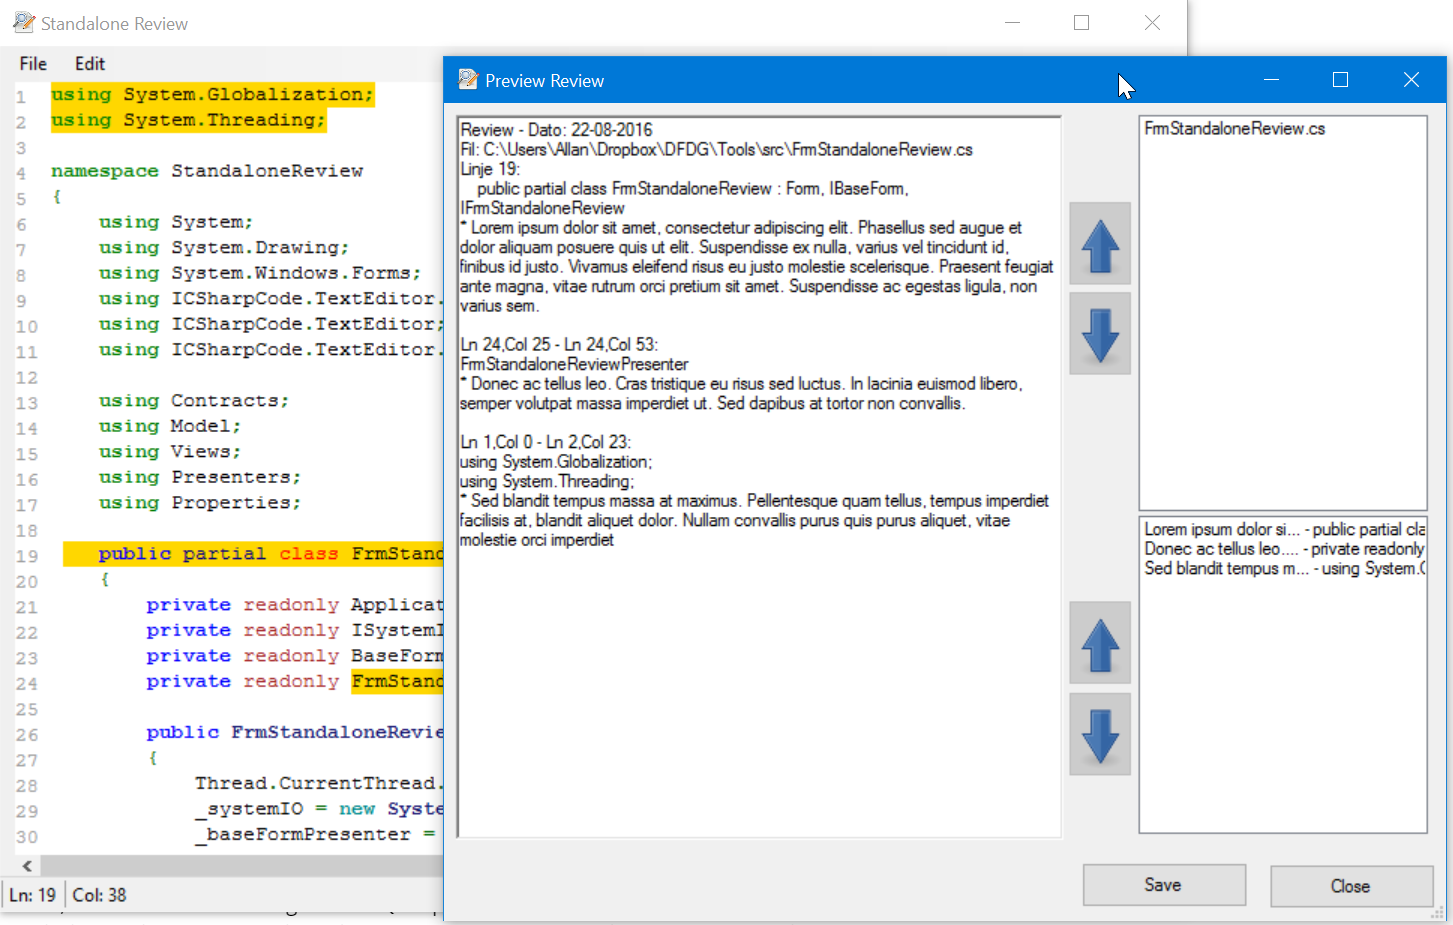
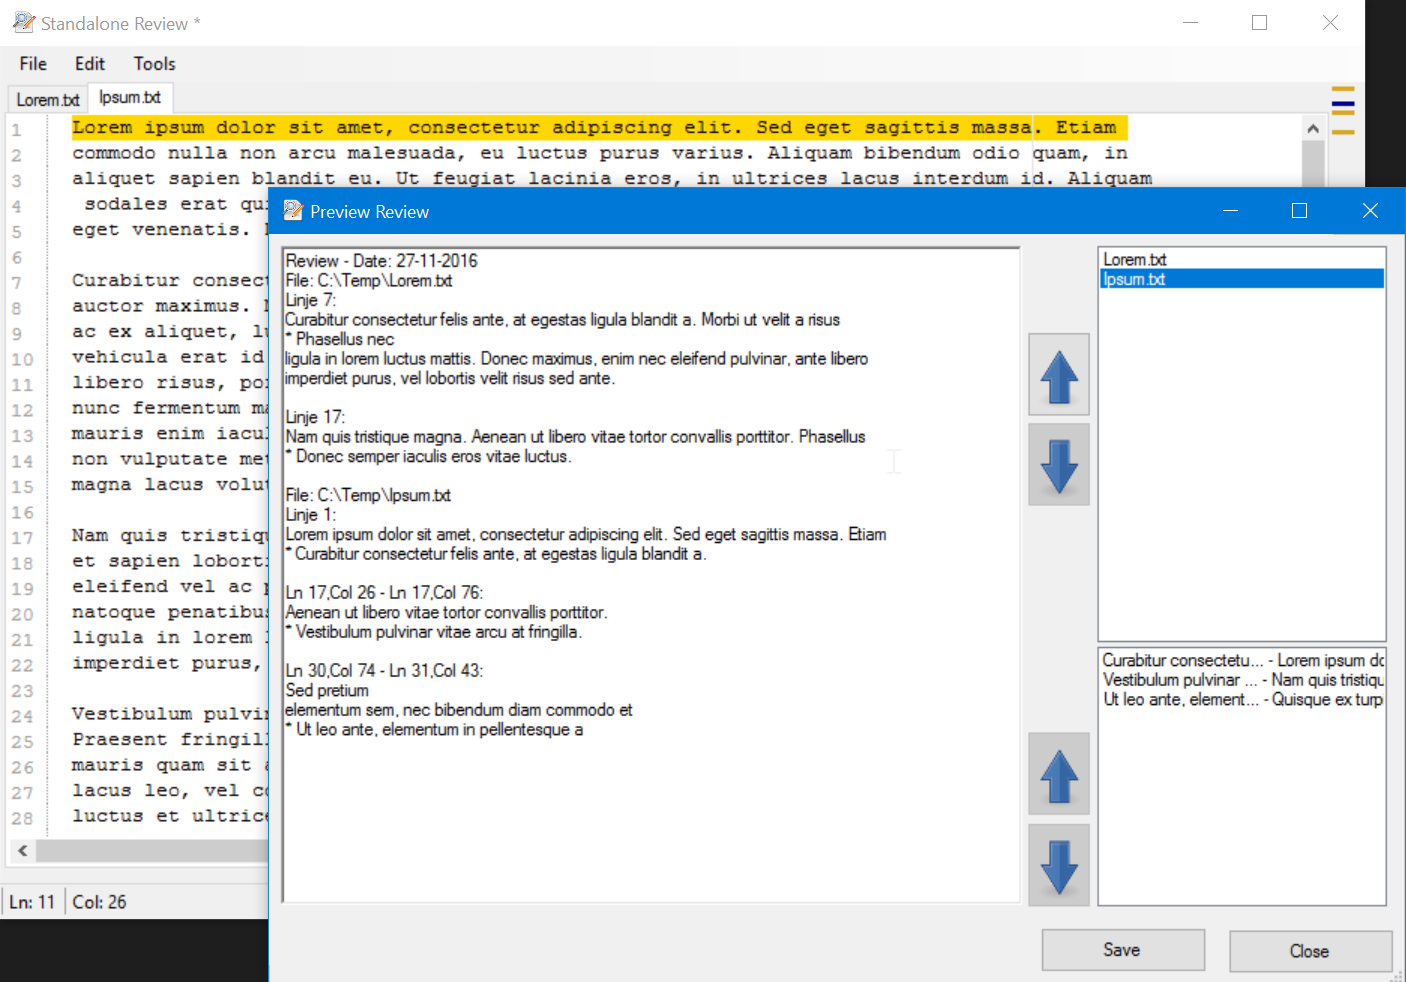
Updated Readme.md and screenshots.

diff --git a/Readme.md b/Readme.md
@@ -4,16 +4,18 @@
 This is an application that helps you to make code reviews. There are alot of applications that can do this for you, but almost all of them are build to be collaborative and connected to a server or installed on a server and accessed through a webclient. 
 So in order to use them you have to be connected to the internet, and you have to have a server where you can install the server part of the tool, and if you want to use those tools in work related projects, you have to have permission from the IT-department to install the tool on the server.
 
-**Stanalone Review** is build to be entirely standalone and disconnected. If you have the file you want to review locally and you have **Standalone Review** installed, you can make comments to the file, thats it.
+**Stanalone Review** is build to be entirely standalone and disconnected. If you have the file or files you want to review locally and you have **Standalone Review** installed, you can make comments to the file, thats it.
 
 Task Lists
 ----
-- [ ] Open multiple files in a Review
+- [x] Open multiple files in a Review
 - [x] Manually choose the locale used for the application
 - [x] Show mini-markers for where the comments are in the file
-- [ ] Open Review 
+- [ ] Save/Open Review
 - [ ] Use richtext to format the review
 - [ ] Save the review as HTML
+- [ ] Copy the review to the clipboard
+- [ ] Open files from commit from Git repository
 
 Icons
 ----
